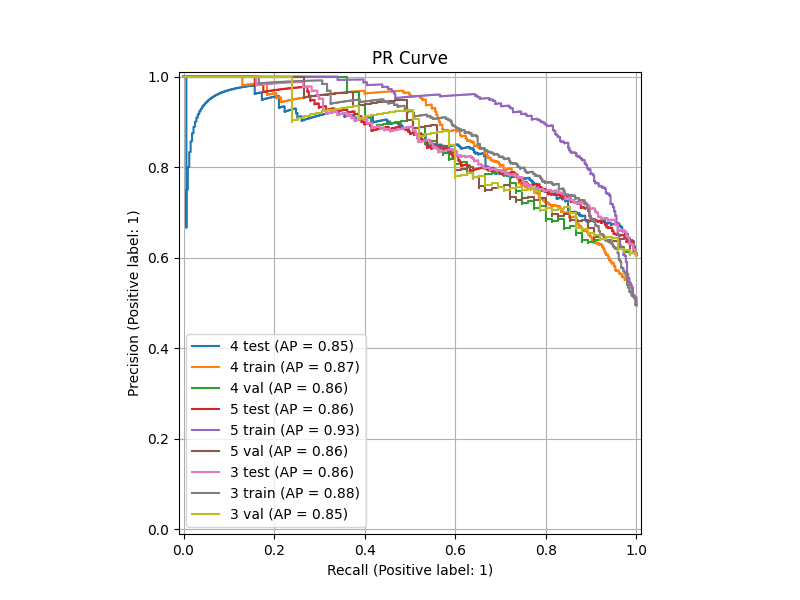
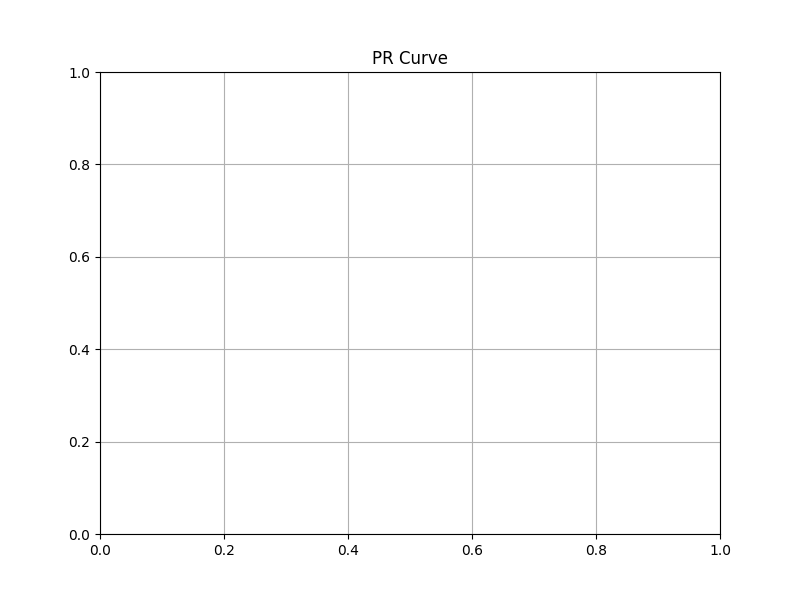
update exp_5

diff --git a/src/text_exp_transformers.py b/src/text_exp_transformers.py
@@ -1,8 +1,11 @@
+import os
 import pandas as pd
 import numpy as np
 import tqdm
 
-from transformers import AutoTokenizer, AutoModel
+import pickle
+
+from transformers import AutoTokenizer, AutoModel, AutoModelForCausalLM
 import torch
 import torch.nn as nn
 import torch.optim as optim
@@ -101,6 +104,61 @@ model_name_4 = "sentence-transformers/all-MiniLM-L6-v2"
 tokenizer_4 = AutoTokenizer.from_pretrained(model_name_4)
 model_4 = AutoModel.from_pretrained(model_name_4)
 list_emb_4 = apply_func_to_datasets(list_datasets, get_embedding_4)
+
+# %%
+
+def get_embedding_5(text):
+    inputs = tokenizer_5(text, return_tensors="pt", padding=True, truncation=True, max_length=128)
+    with torch.no_grad():
+        outputs = model_5(**inputs)
+    return outputs.last_hidden_state[0, 0, :].numpy()
+
+model_name_5 = "state-spaces/mamba-370m-hf"
+
+filepath = "data/output/list_emb_5.pkl"
+if os.path.exists(filepath):
+    with open(filepath, 'rb') as f:
+        list_emb_5 = pickle.load(f)
+else:
+    tokenizer_5 = AutoTokenizer.from_pretrained(model_name_5)
+    model_5 = AutoModel.from_pretrained(model_name_5)
+
+    list_emb_5 = apply_func_to_datasets(list_datasets, get_embedding_5)
+    with open(filepath, "wb") as f:
+        pickle.dump(list_emb_5, f)
+
+# %%
+
+# def get_embedding_6(text):
+#     inputs = tokenizer_6(text, return_tensors="pt", padding=True, truncation=True, max_length=128)
+#     with torch.no_grad():
+#         outputs = model_6(**inputs)
+#     return outputs.last_hidden_state[0, 0, :].numpy()
+#
+#
+# model_name_6 = "state-spaces/mamba2-370m"
+# tokenizer_6 = AutoTokenizer.from_pretrained(model_name_6)
+# # model_6 = AutoModel.from_pretrained(model_name_6, ignore_mismatched_sizes=True)
+# model_6 = AutoModelForCausalLM.from_pretrained(model_name_6, ignore_mismatched_sizes=True)
+# list_emb_6 = apply_func_to_datasets(list_datasets, get_embedding_6)
+#
+# with open("data/output/list_emb_6.pkl", "wb") as f:
+#     pickle.dump(list_emb_6, f)
+
+# %%
+
+def get_embedding_6(text):
+    inputs = tokenizer_6(text, return_tensors="pt", padding=True,
+                         truncation=True, max_length=1024)
+    with torch.no_grad():
+        outputs = model_6(**inputs)
+    return outputs.last_hidden_state[0, 0, :].numpy()
+
+
+model_name_6 = "michellejieli/emotion_text_classifier"
+tokenizer_6 = AutoTokenizer.from_pretrained(model_name_6)
+model_6 = AutoModel.from_pretrained(model_name_6)
+list_emb_6 = apply_func_to_datasets(list_datasets, get_embedding_6)
 
 # %%
 
@@ -652,10 +710,78 @@ save_experiment_predictions(root_folder="data/experiments/exp_3/",
 
 # %%
 
+X_train = list_emb_5[0][1]
+y_train = X_train['label']
+X_train = X_train.drop('label', axis=1)
+
+X_val = list_emb_5[1][1]
+y_val = X_val['label']
+X_val = X_val.drop('label', axis=1)
+
+model_15 = CatBoostClassifier(
+    iterations=10,
+    loss_function='Logloss',
+    # auto_class_weights='Balanced',
+    learning_rate=0.005,
+    max_depth=8,
+    eval_metric='F1',
+    random_seed=42,
+    verbose=100,
+)
+
+model_15.fit(
+    X_train, y_train,
+    eval_set=(X_val, y_val),
+    early_stopping_rounds=200,
+    use_best_model=True
+)
+
+save_experiment_predictions(root_folder="data/experiments/exp_3/",
+                            name='15',
+                            pipe=model_15,
+                            datasets=list_emb_5,
+                            column=None,
+                            )
+# %%
+
+X_train = list_emb_6[0][1]
+y_train = X_train['label']
+X_train = X_train.drop('label', axis=1)
+
+X_val = list_emb_6[1][1]
+y_val = X_val['label']
+X_val = X_val.drop('label', axis=1)
+
+model_16 = CatBoostClassifier(
+    iterations=150,
+    loss_function='Logloss',
+    # auto_class_weights='Balanced',
+    learning_rate=0.05,
+    max_depth=3,
+    eval_metric='F1',
+    random_seed=42,
+    verbose=50,
+)
+
+model_16.fit(
+    X_train, y_train,
+    eval_set=(X_val, y_val),
+    # early_stopping_rounds=500,
+    # use_best_model=True
+)
+
+save_experiment_predictions(root_folder="data/experiments/exp_3/",
+                            name='16',
+                            pipe=model_16,
+                            datasets=list_emb_6,
+                            column=None,
+                            )
+
+
 results, results_mean = calc_scores(root_folder="data/experiments/exp_3/",
                                     plot_names=['14', '3'])
 
-top_names = results_mean.head(12).index.tolist()
+top_names = results_mean.head(6).index.tolist()
 print(results_mean.to_markdown(tablefmt="github"))
 print()
 print(results[results['name'].isin(top_names)].to_markdown(tablefmt="github"))

diff --git a/src/text_exp_train_transfromer.py b/src/text_exp_train_transfromer.py
@@ -4,7 +4,6 @@ import pandas as pd
 import numpy as np
 
 import torch
-from torch import nn
 from torch.utils.data import DataLoader
 from transformers import AutoTokenizer, AutoModel
 
@@ -52,8 +51,9 @@ def predict_proba(model, data_loader, device):
 
 def create_dataloader(tokenizer, df, max_length=256, batch_size=16, shuffle=False):
     encodings = tokenizer(df['text'].values.tolist(),
-                            truncation=True, padding=True, max_length=max_length,
-                            return_tensors='pt')
+                          truncation=True, padding=True,
+                          max_length=max_length,
+                          return_tensors='pt')
     data_loader = DataLoader(
         TextDataset(encodings, df['label'].astype(int).values.tolist()),
         batch_size=batch_size, shuffle=shuffle)
@@ -535,6 +535,65 @@ save_nn_experiment_predictions(root_folder="data/experiments/exp_5/",
                                datasets=list_datasets_1, device=device)
 
 # %%
+
+# Define a simple classification layer on top of BERT
+class ClassificationModel(torch.nn.Module):
+    def __init__(self, bert_model):
+        super(ClassificationModel, self).__init__()
+        self.bert = bert_model
+        self.fc = torch.nn.Linear(768, 128)
+        self.dropout = torch.nn.Dropout(0.2)
+        self.fc2 = torch.nn.Linear(128, 1)
+
+    def forward(self, input_ids, attention_mask):
+        outputs = self.bert(input_ids=input_ids, attention_mask=attention_mask)
+        pooled_output = outputs.last_hidden_state[:, 0, :]
+        logits = self.fc(pooled_output)
+        logits = self.dropout(logits)
+        logits = self.fc2(logits)
+
+        return logits
+
+    def get_params(self):
+        return {}
+
+model_name_1 = "michellejieli/emotion_text_classifier"
+tokenizer_1 = AutoTokenizer.from_pretrained(model_name_1)
+model_base_1 = AutoModel.from_pretrained(model_name_1)
+
+# Freeze all layers
+for param in model_base_1.parameters():
+    param.requires_grad = False
+
+for layer in list(model_base_1.children())[-2:]:
+    for param in layer.parameters():
+        param.requires_grad = True
+        
+model_8 = ClassificationModel(model_base_1)
+optimizer_8 = torch.optim.SGD(model_8.parameters(), lr=0.001)
+device = torch.device('cuda') if torch.cuda.is_available() else torch.device('cpu')
+
+train_loader = create_dataloader(tokenizer_1, train_df, max_length=1024)
+val_loader = create_dataloader(tokenizer_1, val_df, max_length=1024)
+test_loader = create_dataloader(tokenizer_1, test_df, max_length=1024)
+
+list_datasets_1 = [
+    ('train', train_loader, train_df['label']),
+    ('val', val_loader, val_df['label']),
+    ('test', test_loader, test_df['label']),
+]
+
+model_8 = train(model_8, train_loader, val_loader,
+                criterion=torch.nn.BCEWithLogitsLoss(), 
+                optimizer=optimizer_8, 
+                device=device, 
+                num_epoch=10)
+
+save_nn_experiment_predictions(root_folder="data/experiments/exp_5/",
+                               name="8", model=model_8,
+                               datasets=list_datasets_1, device=device)
+
+
 
 results, results_mean = calc_scores(root_folder="data/experiments/exp_5/",
                                     plot_names=['3', '4', '5'])
